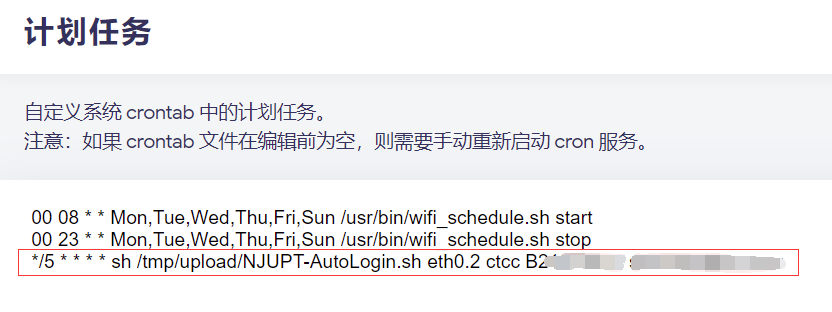
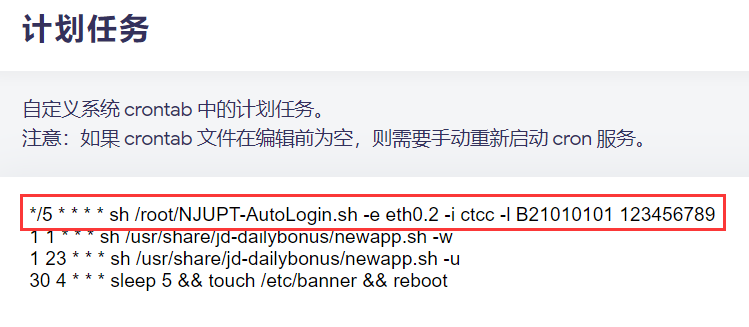
feat:添加对不断网账号的支持

Changed region(s): [[0.0, 0.5769, 0.9826, 0.8942], [0.0307, 0.2885, 0.8598, 0.4904], [0.0307, 0.0288, 0.215, 0.1442]]

diff --git a/README.md b/README.md
@@ -5,11 +5,22 @@
 >
 >  **注意** 脚本会获取系统时间来判断当前是否还没断网，所以系统时间不准可能会导致不能正常触发脚本。建议在配置脚本之前先校准系统时间；且在配置完成之后路由器一直插上电，避免系统时间重置。（应该也花不了很多的电费 手动滑稽）
 
-## 硬件准备
+## 脚本参数
+
+| 参数 | 名称           | 介绍                                  |
+| ---- | -------------- | ------------------------------------- |
+| -e   | eth口          |                                       |
+| -i   | 运营商         | 校园网为njupt，电信为ctcc，移动为cmcc |
+| -l   | 是否有时间限制 | 添加参数后会仅在非断网时间内执行      |
+| -h   | 显示帮助菜单   |                                       |
+
+## 用法
+
+### 硬件准备
 
 * 一台刷了第三方固件的路由器（如OpenWRT）
 
-## 用法
+### 配置脚本
 
 首先下载[Release](https://github.com/s235784/NJUPT_AutoLogin/releases)中的脚本，然后上传到路由器中。
 进入路由器后台，记住首页出现的**IPv4 WAN 状态**中的**eth口**，如 我这里是eth0.2。
@@ -19,14 +30,16 @@
 然后在路由器的计划任务中添加以下命令，并根据实际情况修改这条命令。
 
 ```
-*/5 * * * * sh /xxx/NJUPT-AutoLogin.sh eth口 运营商 账号 密码
+*/5 * * * * sh /xxx/NJUPT-AutoLogin.sh -e eth口 -i 运营商 (-l) 账号 密码
 ```
 
 > **注意**
+>
 > * **/xxx/NJUPT-AutoLogin.sh** 更换成脚本实际的路径
 > * **eth口** 更换成上一步中相应的值
 > * **账号和密码** 就是校园网登录界面输入的账号和密码
 > * **运营商** 请看下表
+> * **-l** 可选参数，如果你的账号晚上会断网就需要加上；反之删去
 
 | 运营商 | 替换成 |
 | ------ | ------ |
